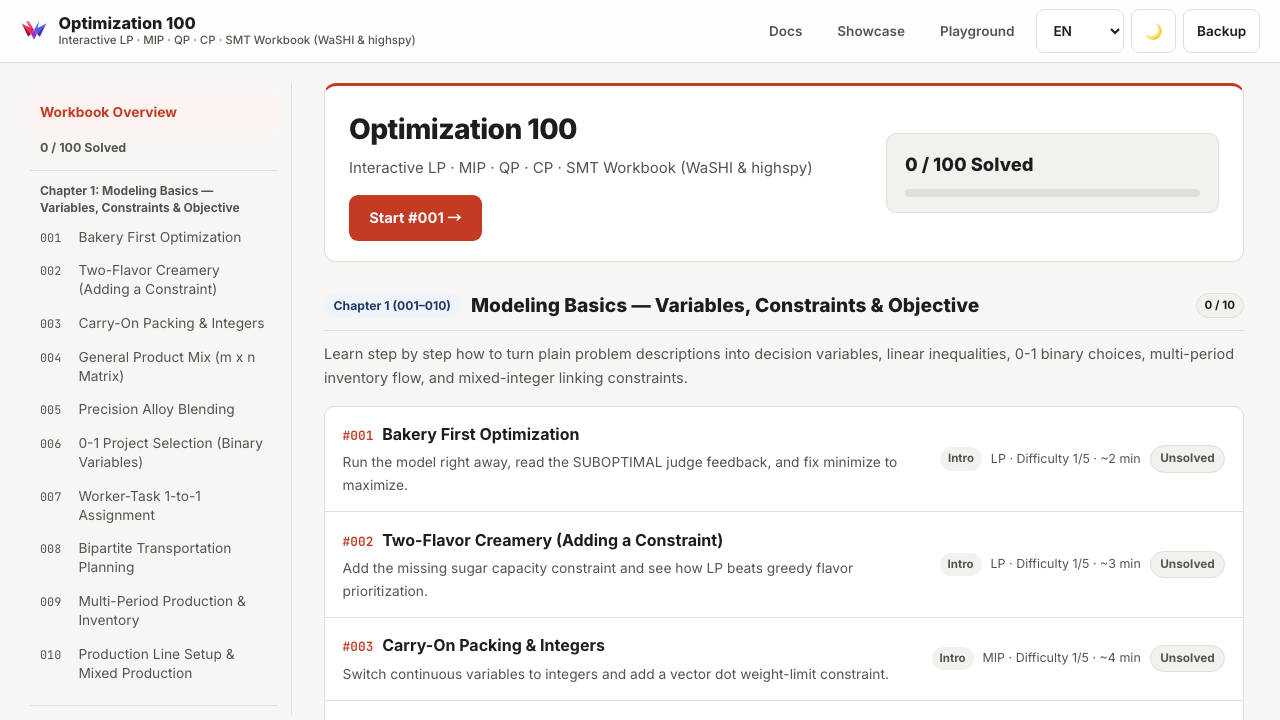
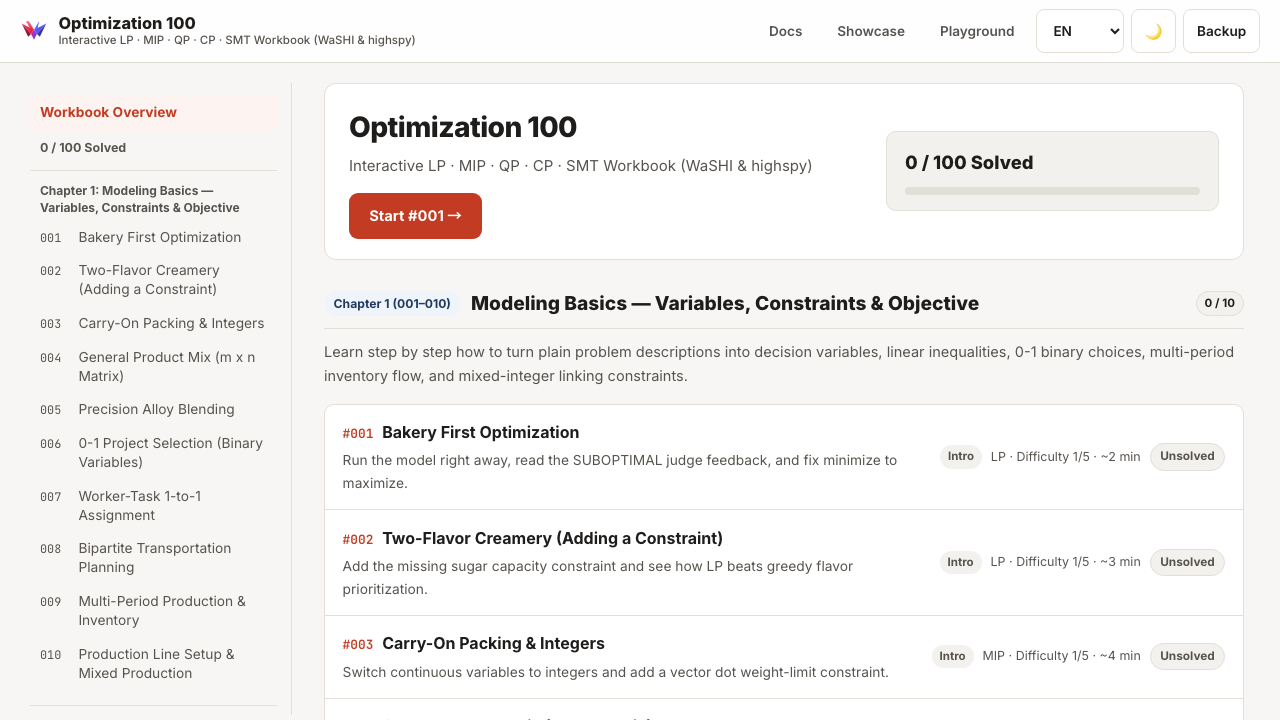
style(exercises): remove thick red accent borders on hero, workbench, and capstone row

diff --git a/examples/web-demo/exercises/src/style.css b/examples/web-demo/exercises/src/style.css
@@ -381,7 +381,6 @@ button {
 .ex-hero {
   background: var(--surface);
   border: 1px solid var(--border);
-  border-top: 3px solid var(--accent);
   border-radius: 12px;
   padding: 1.25rem 1.5rem;
   box-shadow: var(--shadow-sm);
@@ -553,7 +552,7 @@ button {
 }
 
 .toc-row.is-capstone {
-  border-left: 3px solid var(--capstone);
+  background: color-mix(in srgb, var(--capstone-soft) 35%, var(--surface));
 }
 
 .toc-row.is-solved {
@@ -942,7 +941,7 @@ details.hint-accordion[open] summary::after {
 /* Answer Workbench & Overlay Code Editor (Modern Web Guidance) */
 .answer-workbench {
   background: var(--surface);
-  border: 2px solid color-mix(in srgb, var(--accent) 26%, var(--border-strong));
+  border: 1px solid var(--border-strong);
   border-radius: 12px;
   box-shadow: var(--shadow-md);
   overflow: hidden;
@@ -952,7 +951,6 @@ details.hint-accordion[open] summary::after {
 
 .answer-workbench-head {
   padding: 0.95rem 1.25rem;
-  border-left: 4px solid var(--accent);
   border-bottom: 1px solid var(--border);
   background: var(--accent-soft);
 }
